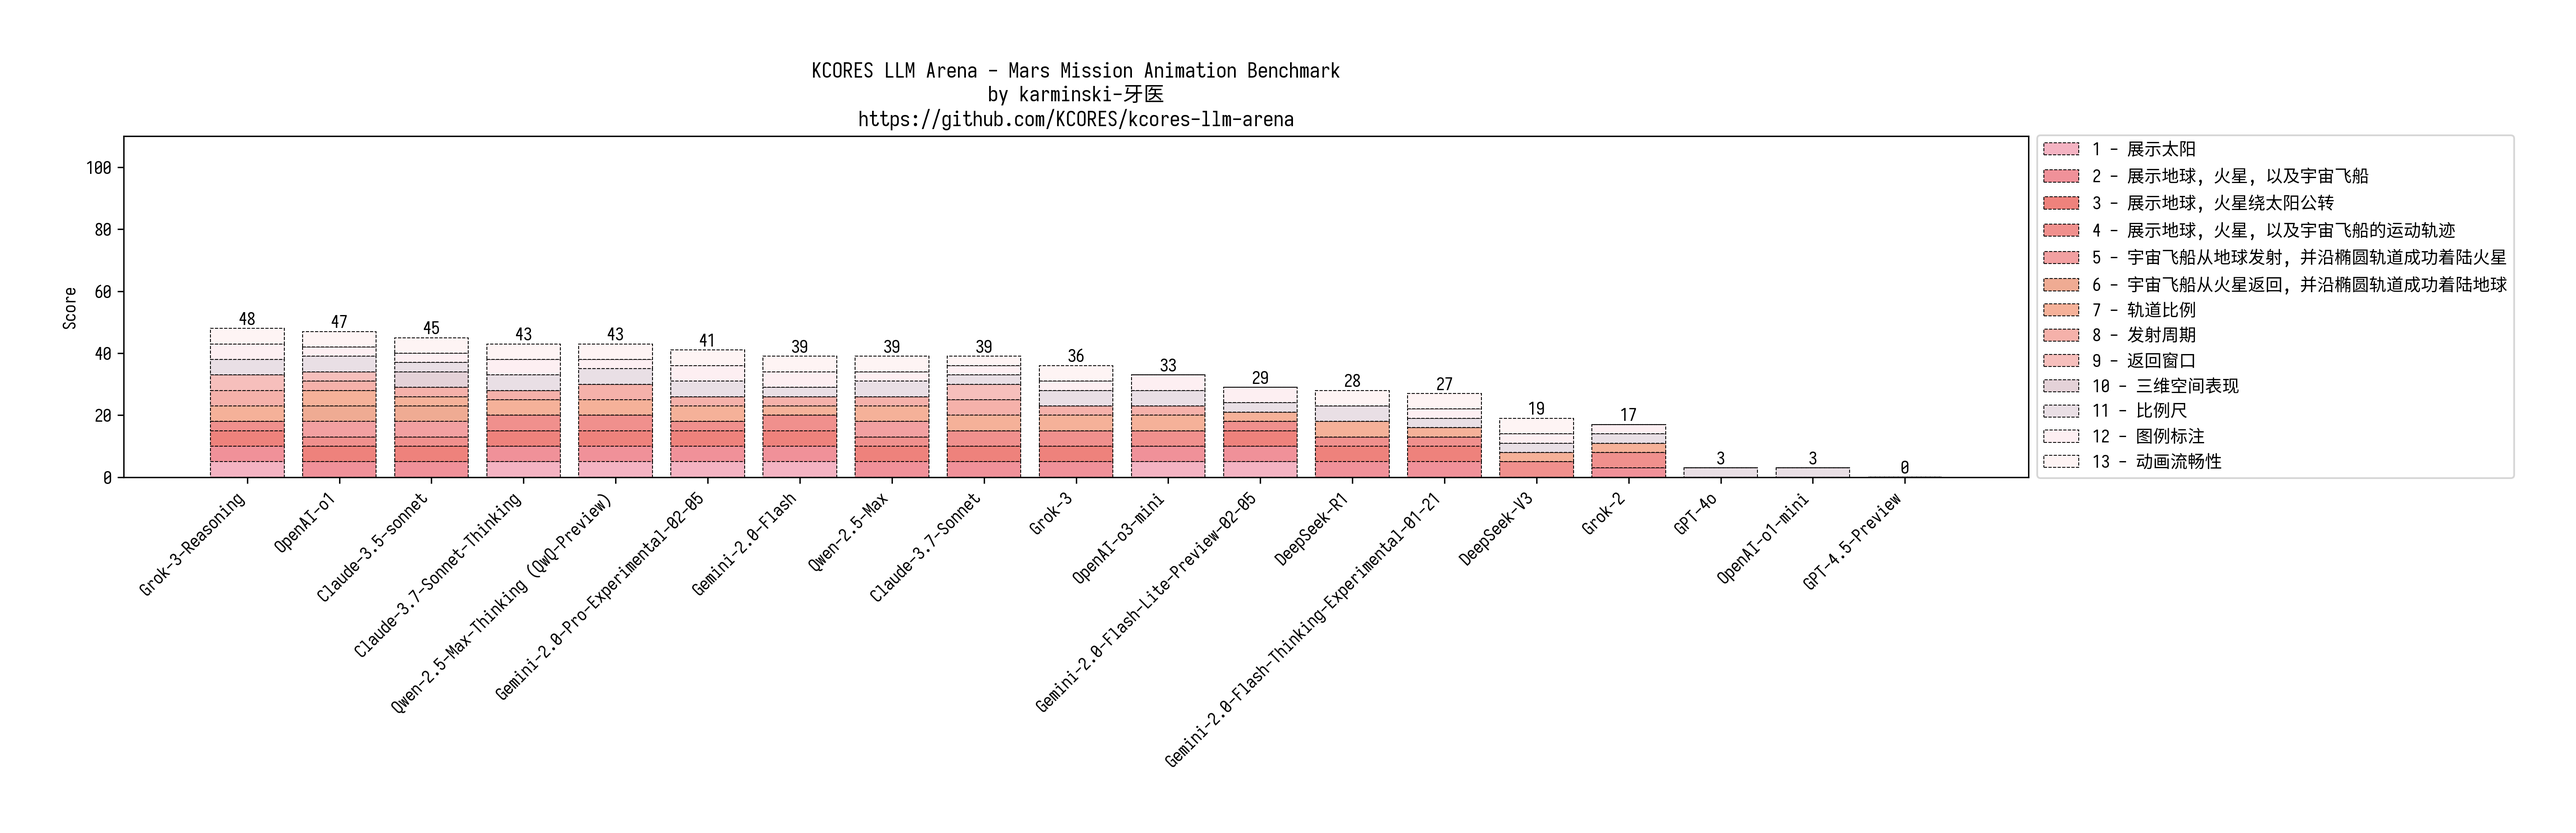
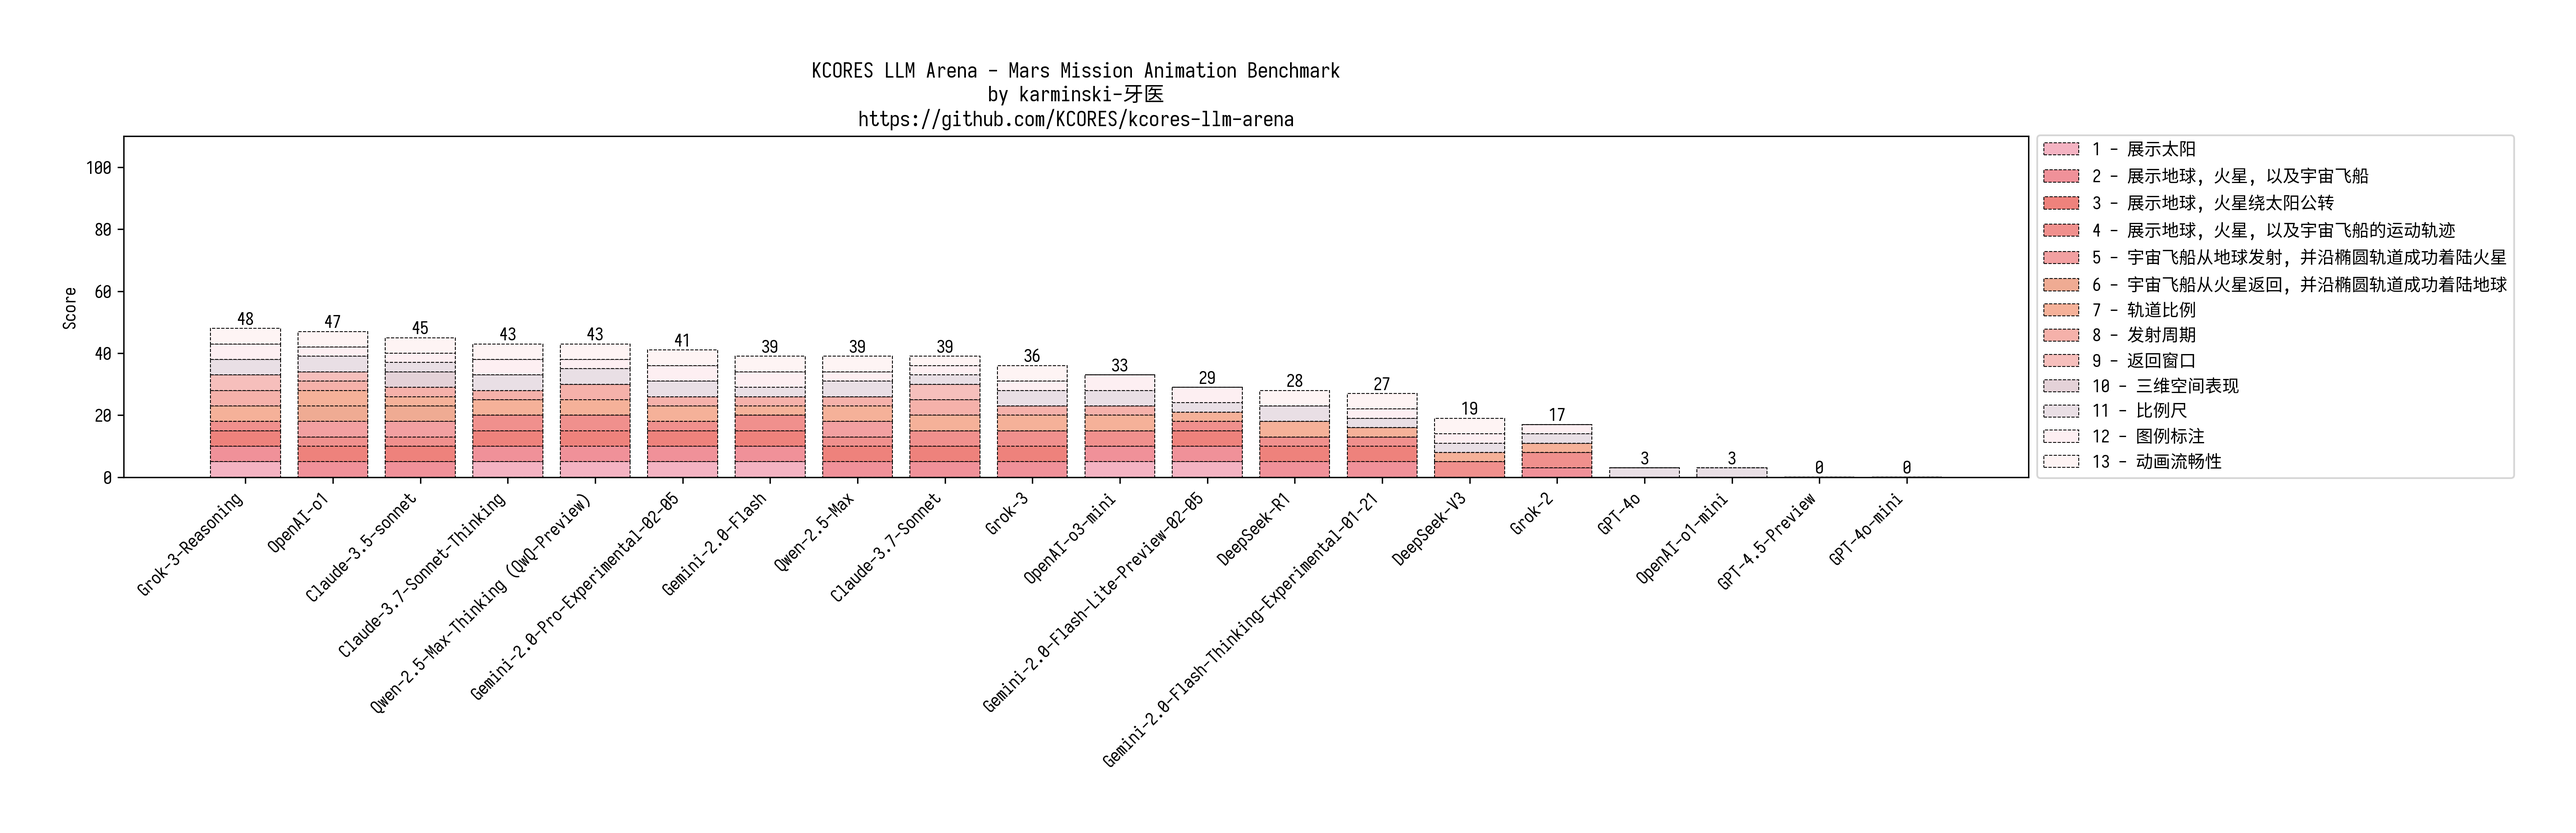
ADD final result

diff --git a/scripts/render-coding-benchmark-chat.py b/scripts/render-coding-benchmark-chat.py
@@ -1,0 +1,156 @@
+import matplotlib.pyplot as plt
+import json
+from matplotlib import font_manager
+import argparse
+import os
+from datetime import datetime, timezone, timedelta
+
+# Add argument parser
+parser = argparse.ArgumentParser(description="Render LLM benchmark chart")
+
+# Add custom font
+font_path = "../assets/fonts/sarasa-mono-sc-regular.ttf"
+font_manager.fontManager.addfont(font_path)
+plt.rcParams["font.family"] = "Sarasa Mono SC"
+
+# Define benchmark paths and their max scores
+benchmarks = {
+    "benchmark-ball-bouncing-inside-spinning-hexagon": {
+        "path": "../benchmark-ball-bouncing-inside-spinning-hexagon/scripts/benchmark-data.json",
+        "max_score": 90,
+        "display_name": "ball-bouncing-inside-spinning-hexagon",
+    },
+    "benchmark-mandelbrot-set-meet-libai": {
+        "path": "../benchmark-mandelbrot-set-meet-libai/scripts/benchmark-data.json",
+        "max_score": 110,
+        "display_name": "mandelbrot-set-meet-libai",
+    },
+    "benchmark-mars-mission": {
+        "path": "../benchmark-mars-mission/scripts/benchmark-data.json",
+        "max_score": 65,
+        "display_name": "mars-mission",
+    },
+    "benchmark-solar-system": {
+        "path": "../benchmark-solar-system/scripts/benchmark-data.json",
+        "max_score": 90,
+        "display_name": "solar-system",
+    },
+}
+
+# Load data from each benchmark
+all_data = {}
+for benchmark_key, benchmark_info in benchmarks.items():
+    try:
+        with open(benchmark_info["path"], "r", encoding="utf-8") as f:
+            data = json.load(f)
+            # Normalize scores to 100 points scale
+            for entry in data:
+                if entry["Final-Score"] > 0:  # Avoid division by zero
+                    normalized_score = (
+                        entry["Final-Score"] / benchmark_info["max_score"]
+                    ) * 100
+                    entry["Normalized-Score"] = round(normalized_score, 1)
+                else:
+                    entry["Normalized-Score"] = 0
+            all_data[benchmark_key] = data
+    except Exception as e:
+        print(f"Error loading {benchmark_key}: {e}")
+        all_data[benchmark_key] = []
+
+# Get unique LLM names across all benchmarks
+all_llms = set()
+for benchmark_data in all_data.values():
+    for entry in benchmark_data:
+        all_llms.add(entry["LLM"])
+all_llms = sorted(list(all_llms))
+
+# Create a combined dataset with normalized scores for each LLM across all benchmarks
+combined_data = []
+for llm in all_llms:
+    entry = {"LLM": llm}
+    total_score = 0
+    benchmarks_count = 0
+
+    for benchmark_key, benchmark_data in all_data.items():
+        # Find this LLM in the benchmark data
+        llm_data = next((item for item in benchmark_data if item["LLM"] == llm), None)
+        if llm_data:
+            entry[benchmark_key] = llm_data["Normalized-Score"]
+            total_score += llm_data["Normalized-Score"]
+            benchmarks_count += 1
+        else:
+            entry[benchmark_key] = 0
+
+    # Store total score instead of average
+    entry["Final-Score"] = round(total_score, 1)
+
+    combined_data.append(entry)
+
+# Sort by Final-Score in descending order
+combined_data.sort(key=lambda x: x["Final-Score"], reverse=True)
+
+# Prepare data for plotting
+llm_names = [entry["LLM"] for entry in combined_data]
+
+# Colors for each benchmark
+colors = {
+    "benchmark-ball-bouncing-inside-spinning-hexagon": "#65318e",  # 234,85,6
+    "benchmark-mandelbrot-set-meet-libai": "#674196",  # 77,67,152
+    "benchmark-mars-mission": "#674598",  # 245,177,170
+    "benchmark-solar-system": "#7058a3",  # 170,76,143
+}
+
+# Plotting
+fig, ax = plt.subplots(figsize=(20, 6))
+
+# Customize font size and weight for better readability
+plt.rcParams["font.size"] = 10
+plt.rcParams["font.weight"] = "normal"
+
+# Initialize bottom for stacking
+bottom = [0] * len(llm_names)
+
+# Plot each benchmark with specified colors
+for i, (benchmark_key, benchmark_info) in enumerate(benchmarks.items()):
+    benchmark_scores = [entry.get(benchmark_key, 0) for entry in combined_data]
+    bars = ax.bar(
+        llm_names,
+        benchmark_scores,
+        bottom=bottom,
+        label=benchmark_info["display_name"],
+        color=colors[benchmark_key],
+        edgecolor="black",
+        linestyle="--",
+        linewidth=0.5,
+        width=0.8,
+    )
+    bottom = [i + j for i, j in zip(bottom, benchmark_scores)]
+
+# Add total score labels on top of bars
+for i, score in enumerate(bottom):
+    ax.text(i, score, f"{combined_data[i]['Final-Score']}", ha="center", va="bottom")
+
+# Add labels and title
+ax.set_ylabel("Normalized Score (0-100)")
+ax.set_title(
+    "KCORES LLM Arena - Real World Coding Benchmark (Normalized to 100-point scale)\nby karminski-牙医\nhttps://github.com/KCORES/kcores-llm-arena"
+)
+
+# Add version timestamp in the bottom right corner (UTC+8)
+now = datetime.now(timezone(timedelta(hours=8)))
+timestamp = now.strftime("%Y-%m-%dT%H:%M:%S%z")
+fig.text(0.98, 0.01, f"version: {timestamp}", ha="right", va="bottom", fontsize=8)
+
+ax.set_ylim(0, 400)
+ax.legend(loc="center left", bbox_to_anchor=(1.0, 0.5), reverse=True)
+
+# Rotate x-axis labels for better readability
+plt.xticks(rotation=45, ha="right")
+
+# Show plot
+plt.tight_layout()
+# Save the plot as PNG file
+plt.savefig(
+    "llm_benchmark_results_normalized.png", dpi=300, bbox_inches="tight", pad_inches=0.5
+)
+plt.show()

diff --git a/benchmark-mars-mission/src/benchmark-mars-mission-GPT-4o-mini-turn-2.py b/benchmark-mars-mission/src/benchmark-mars-mission-GPT-4o-mini-turn-2.py
@@ -1,0 +1,60 @@
+import numpy as np
+import matplotlib.pyplot as plt
+from mpl_toolkits.mplot3d import Axes3D
+from matplotlib.animation import FuncAnimation
+
+# Define the positions of Earth and Mars
+earth_pos = np.array([0, 0, 0])
+mars_pos = np.array([1.5, 0, 0])  # Simplified position for Mars
+
+# Create a figure and a 3D axis
+fig = plt.figure()
+ax = fig.add_subplot(111, projection="3d")
+
+# Set limits and labels
+ax.set_xlim([-2, 2])
+ax.set_ylim([-2, 2])
+ax.set_zlim([-2, 2])
+ax.set_xlabel("X axis")
+ax.set_ylabel("Y axis")
+ax.set_zlabel("Z axis")
+
+# Initialize the plot with Earth and Mars
+(earth,) = ax.plot(
+    [earth_pos[0]], [earth_pos[1]], [earth_pos[2]], "bo", markersize=10, label="Earth"
+)
+(mars,) = ax.plot(
+    [mars_pos[0]], [mars_pos[1]], [mars_pos[2]], "ro", markersize=10, label="Mars"
+)
+(trajectory,) = ax.plot([], [], [], "g--", label="Trajectory")
+
+
+# Animation function
+def update(frame):
+    # Calculate the trajectory points
+    t = np.linspace(0, 1, 100)
+    x = (1 - t) * earth_pos[0] + t * mars_pos[0]
+    y = (1 - t) * earth_pos[1] + t * mars_pos[1]
+    z = (
+        (1 - t) * earth_pos[2] + t * mars_pos[2] + np.sin(t * np.pi) * 0.5
+    )  # Adding some height variation
+
+    # Update the trajectory
+    trajectory.set_data(x, y)
+    trajectory.set_3d_properties(z)
+
+    # Update the positions of Earth and Mars
+    earth.set_data(earth_pos[0], earth_pos[1])
+    earth.set_3d_properties(earth_pos[2])
+    mars.set_data(mars_pos[0], mars_pos[1])
+    mars.set_3d_properties(mars_pos[2])
+
+    return earth, mars, trajectory
+
+
+# Create the animation
+ani = FuncAnimation(fig, update, frames=np.arange(0, 100), blit=True)
+
+# Show the plot
+plt.legend()
+plt.show()

diff --git a/benchmark-mars-mission/src/benchmark-mars-mission-GPT-4o-mini-turn-1.py b/benchmark-mars-mission/src/benchmark-mars-mission-GPT-4o-mini-turn-1.py
@@ -1,0 +1,60 @@
+import numpy as np
+import matplotlib.pyplot as plt
+from mpl_toolkits.mplot3d import Axes3D
+from matplotlib.animation import FuncAnimation
+
+# Define the positions of Earth and Mars
+earth_pos = np.array([0, 0, 0])
+mars_pos = np.array([1.5, 0, 0])  # Simplified position for Mars
+
+# Create a figure and a 3D axis
+fig = plt.figure()
+ax = fig.add_subplot(111, projection="3d")
+
+# Set limits and labels
+ax.set_xlim([-2, 2])
+ax.set_ylim([-2, 2])
+ax.set_zlim([-2, 2])
+ax.set_xlabel("X axis")
+ax.set_ylabel("Y axis")
+ax.set_zlabel("Z axis")
+
+# Initialize the plot with Earth and Mars
+(earth,) = ax.plot(
+    [earth_pos[0]], [earth_pos[1]], [earth_pos[2]], "bo", markersize=10, label="Earth"
+)
+(mars,) = ax.plot(
+    [mars_pos[0]], [mars_pos[1]], [mars_pos[2]], "ro", markersize=10, label="Mars"
+)
+(trajectory,) = ax.plot([], [], [], "g--", label="Trajectory")
+
+
+# Animation function
+def update(frame):
+    # Calculate the trajectory points
+    t = np.linspace(0, 1, 100)
+    x = (1 - t) * earth_pos[0] + t * mars_pos[0]
+    y = (1 - t) * earth_pos[1] + t * mars_pos[1]
+    z = (
+        (1 - t) * earth_pos[2] + t * mars_pos[2] + np.sin(t * np.pi) * 0.5
+    )  # Add some height variation
+
+    # Update the trajectory
+    trajectory.set_data(x, y)
+    trajectory.set_3d_properties(z)
+
+    # Update the positions of Earth and Mars
+    earth.set_data(earth_pos[0], earth_pos[1])
+    earth.set_3d_properties(earth_pos[2])
+    mars.set_data(mars_pos[0], mars_pos[1])
+    mars.set_3d_properties(mars_pos[2])
+
+    return earth, mars, trajectory
+
+
+# Create the animation
+ani = FuncAnimation(fig, update, frames=np.arange(0, 100), blit=True)
+
+# Show the plot
+plt.legend()
+plt.show()

diff --git a/benchmark-mars-mission/src/benchmark-mars-mission-GPT-4o-mini-turn-3.py b/benchmark-mars-mission/src/benchmark-mars-mission-GPT-4o-mini-turn-3.py
@@ -1,0 +1,49 @@
+import numpy as np
+import matplotlib.pyplot as plt
+from mpl_toolkits.mplot3d import Axes3D
+from matplotlib.animation import FuncAnimation
+
+
+# Define the trajectory
+def trajectory(t):
+    # Simple parabolic trajectory for demonstration
+    x = 10 * t
+    y = 5 * np.sin(t * np.pi)
+    z = 10 * (1 - t)
+    return x, y, z
+
+
+# Create a figure
+fig = plt.figure()
+ax = fig.add_subplot(111, projection="3d")
+
+# Set limits
+ax.set_xlim(0, 100)
+ax.set_ylim(-10, 10)
+ax.set_zlim(0, 10)
+
+# Create a point for the launch
+(point,) = ax.plot([], [], [], "ro")
+
+
+# Initialize the animation
+def init():
+    point.set_data([], [])
+    point.set_3d_properties([])
+    return (point,)
+
+
+# Update the animation
+def update(frame):
+    t = frame / 100  # Normalize frame to [0, 1]
+    x, y, z = trajectory(t)
+    point.set_data(x, y)
+    point.set_3d_properties(z)
+    return (point,)
+
+
+# Create the animation
+ani = FuncAnimation(fig, update, frames=100, init_func=init, blit=True)
+
+# Show the plot
+plt.show()

diff --git a/README.md b/README.md
@@ -15,6 +15,28 @@ KCORES LLM Arena - KCORES 大模型竞技场
 
 ## 编程能力测试
 
+- version: **2025-03-02**
+- Winner: **👑Claude-3.7-Sonnet-Thinking**
+
+### 结论
+
+
+
+目前最好的编程大模型是什么？直接说结论，**👑Claude-3.7-Sonnet-Thinking** 当之无愧, 甚至 Claude 系列都是非常好的选择。
+
+那么除了Claude全家桶，最好的选择是什么？答案是 **DeepSeek-R1**
+
+OpenAI 系列呢？答案是 **OpenAI-o1**
+
+Gemini 系列则是 **Gemini-2.0-Pro**
+
+Grok 嘛...开心那就好
+
+![Coding Benchmark](./scripts/llm_benchmark_results_normalized.png)
+
+
+### 测试子项
+
 
 - [Mandelbrot Set Meet LiBai Benchmark](./benchmark-mandelbrot-set-meet-libai/README.md)
 

diff --git a/benchmark-mars-mission/README.md b/benchmark-mars-mission/README.md
@@ -64,6 +64,7 @@ Generate code for an animated 3d plot of a launch from earth landing on mars and
 | Claude-3.7-Sonnet-Thinking |  5 | 5 | 5 | 5 |  0 (轨道错误)  | 0 (轨道错误) | 5 | 3 (偏差小于50%) | 0 (偏差大于50%)| 0 (无倾角) | 5 | 5 |  5 | 43 | 
 | Qwen-2.5-Max-Thinking (QwQ-Preview) |  5 | 5 | 5 | 5 |  0 (轨道错误) | 0 (轨道错误) | 5 | 5 | 0 (偏差大于50%)| 0 (无倾角) | 5 | 3 (无太阳) |  5 | 43 | 
 | GPT-4.5-Preview |  0 | 0 | 0  | 0|  0  | 0 | 0 | 0 | 0 | 0  | 0 | 0 |  0 | 0 | 
+| GPT-4o-mini |  0 | 0 | 0  | 0|  0  | 0 | 0 | 0 | 0 | 0  | 0 | 0 |  0 | 0 | 
 
 ## 可视化结果
 
